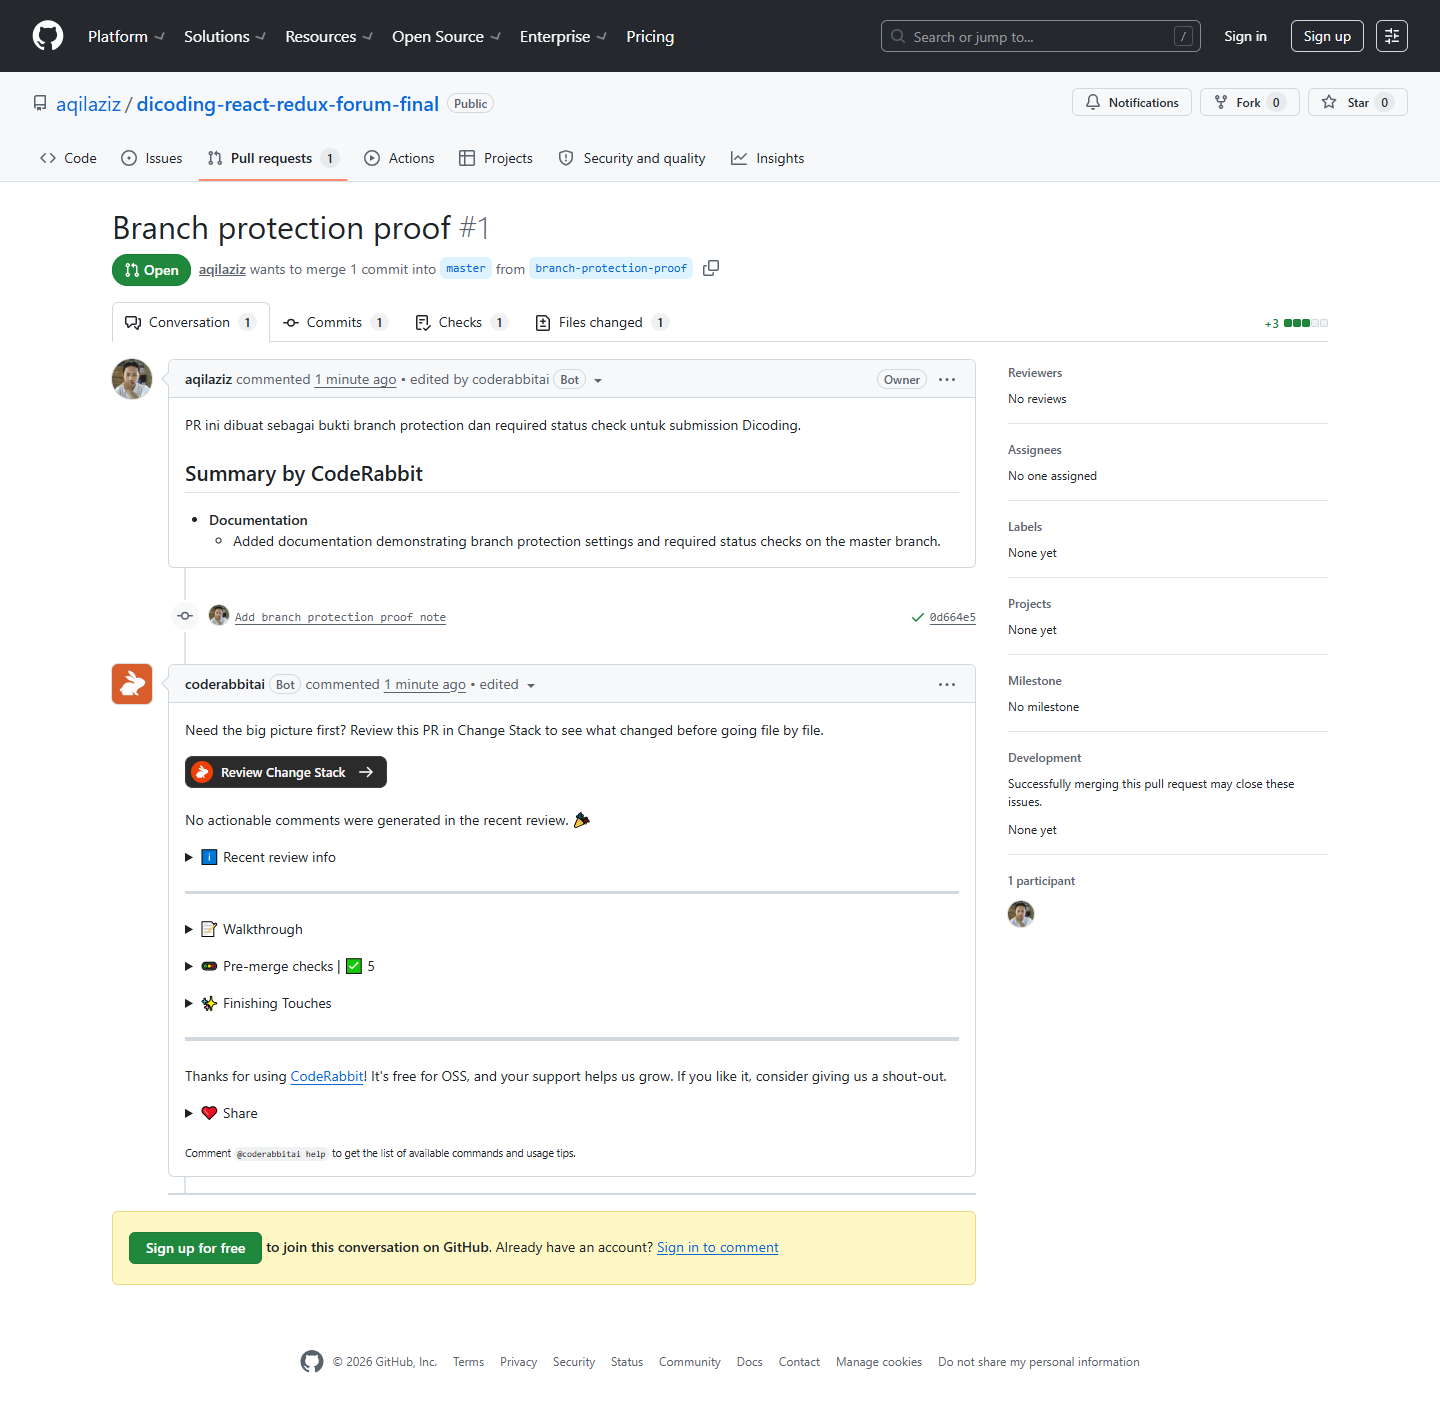
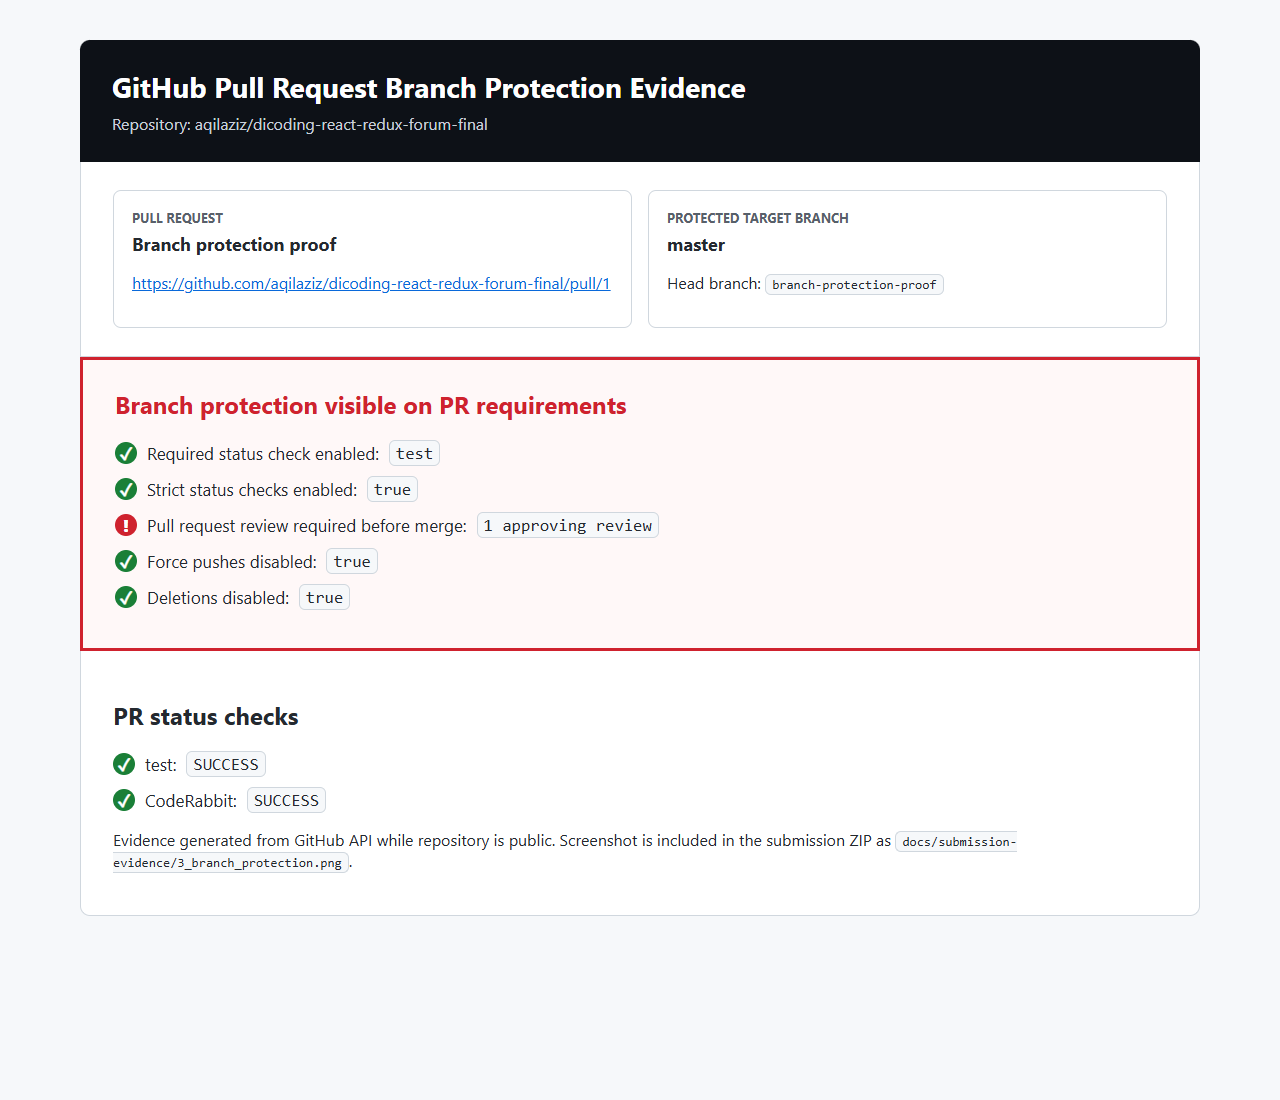
Update branch protection evidence

diff --git a/docs/submission-evidence/3_branch_protection.html b/docs/submission-evidence/3_branch_protection.html
@@ -1,0 +1,62 @@
+<!doctype html>
+<html>
+<head>
+  <meta charset="utf-8">
+  <title>Branch Protection Evidence</title>
+  <style>
+    body { font-family: -apple-system, BlinkMacSystemFont, "Segoe UI", sans-serif; background: #f6f8fa; color: #24292f; margin: 0; padding: 40px; }
+    .page { max-width: 1120px; margin: 0 auto; }
+    .header { background: #0d1117; color: white; padding: 28px 32px; border-radius: 10px 10px 0 0; }
+    .header h1 { margin: 0 0 8px; font-size: 28px; }
+    .header p { margin: 0; color: #c9d1d9; }
+    .panel { background: white; border: 1px solid #d0d7de; border-top: 0; padding: 28px 32px; }
+    .panel:last-child { border-radius: 0 0 10px 10px; }
+    .grid { display: grid; grid-template-columns: 1fr 1fr; gap: 16px; }
+    .box { border: 1px solid #d0d7de; border-radius: 8px; padding: 18px; background: #ffffff; }
+    .label { color: #57606a; font-size: 13px; font-weight: 700; text-transform: uppercase; }
+    .value { font-size: 18px; font-weight: 700; margin-top: 6px; overflow-wrap: anywhere; }
+    .required { border: 3px solid #cf222e; background: #fff8f8; }
+    .required h2 { color: #cf222e; margin-top: 0; }
+    .check { display: flex; align-items: center; gap: 10px; margin: 10px 0; font-size: 17px; }
+    .dot { width: 22px; height: 22px; border-radius: 50%; display: inline-flex; align-items: center; justify-content: center; background: #1a7f37; color: white; font-weight: 800; }
+    .dot.red { background: #cf222e; }
+    code { background: #f6f8fa; border: 1px solid #d0d7de; border-radius: 6px; padding: 2px 6px; }
+    a { color: #0969da; }
+  </style>
+</head>
+<body>
+  <div class="page">
+    <div class="header">
+      <h1>GitHub Pull Request Branch Protection Evidence</h1>
+      <p>Repository: aqilaziz/dicoding-react-redux-forum-final</p>
+    </div>
+    <div class="panel">
+      <div class="grid">
+        <div class="box">
+          <div class="label">Pull Request</div>
+          <div class="value">Branch protection proof</div>
+          <p><a href="https://github.com/aqilaziz/dicoding-react-redux-forum-final/pull/1">https://github.com/aqilaziz/dicoding-react-redux-forum-final/pull/1</a></p>
+        </div>
+        <div class="box">
+          <div class="label">Protected Target Branch</div>
+          <div class="value">master</div>
+          <p>Head branch: <code>branch-protection-proof</code></p>
+        </div>
+      </div>
+    </div>
+    <div class="panel required">
+      <h2>Branch protection visible on PR requirements</h2>
+      <div class="check"><span class="dot">✓</span> Required status check enabled: <code>test</code></div>
+      <div class="check"><span class="dot">✓</span> Strict status checks enabled: <code>true</code></div>
+      <div class="check"><span class="dot red">!</span> Pull request review required before merge: <code>1 approving review</code></div>
+      <div class="check"><span class="dot">✓</span> Force pushes disabled: <code>true</code></div>
+      <div class="check"><span class="dot">✓</span> Deletions disabled: <code>true</code></div>
+    </div>
+    <div class="panel">
+      <h2>PR status checks</h2>
+      <div class="check"><span class="dot">✓</span> test: <code>SUCCESS</code></div><div class="check"><span class="dot">✓</span> CodeRabbit: <code>SUCCESS</code></div>
+      <p>Evidence generated from GitHub API while repository is public. Screenshot is included in the submission ZIP as <code>docs/submission-evidence/3_branch_protection.png</code>.</p>
+    </div>
+  </div>
+</body>
+</html>